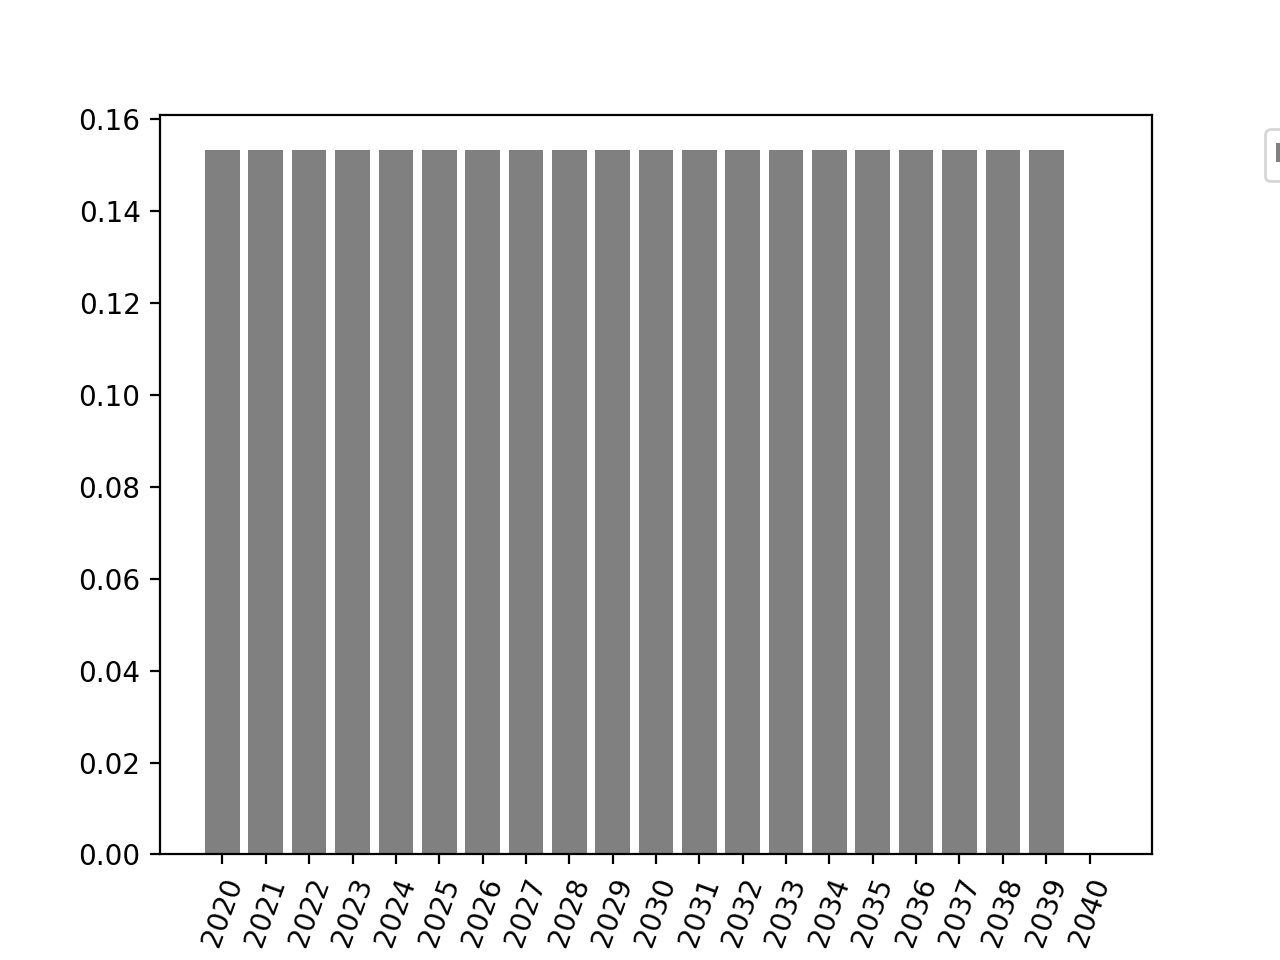
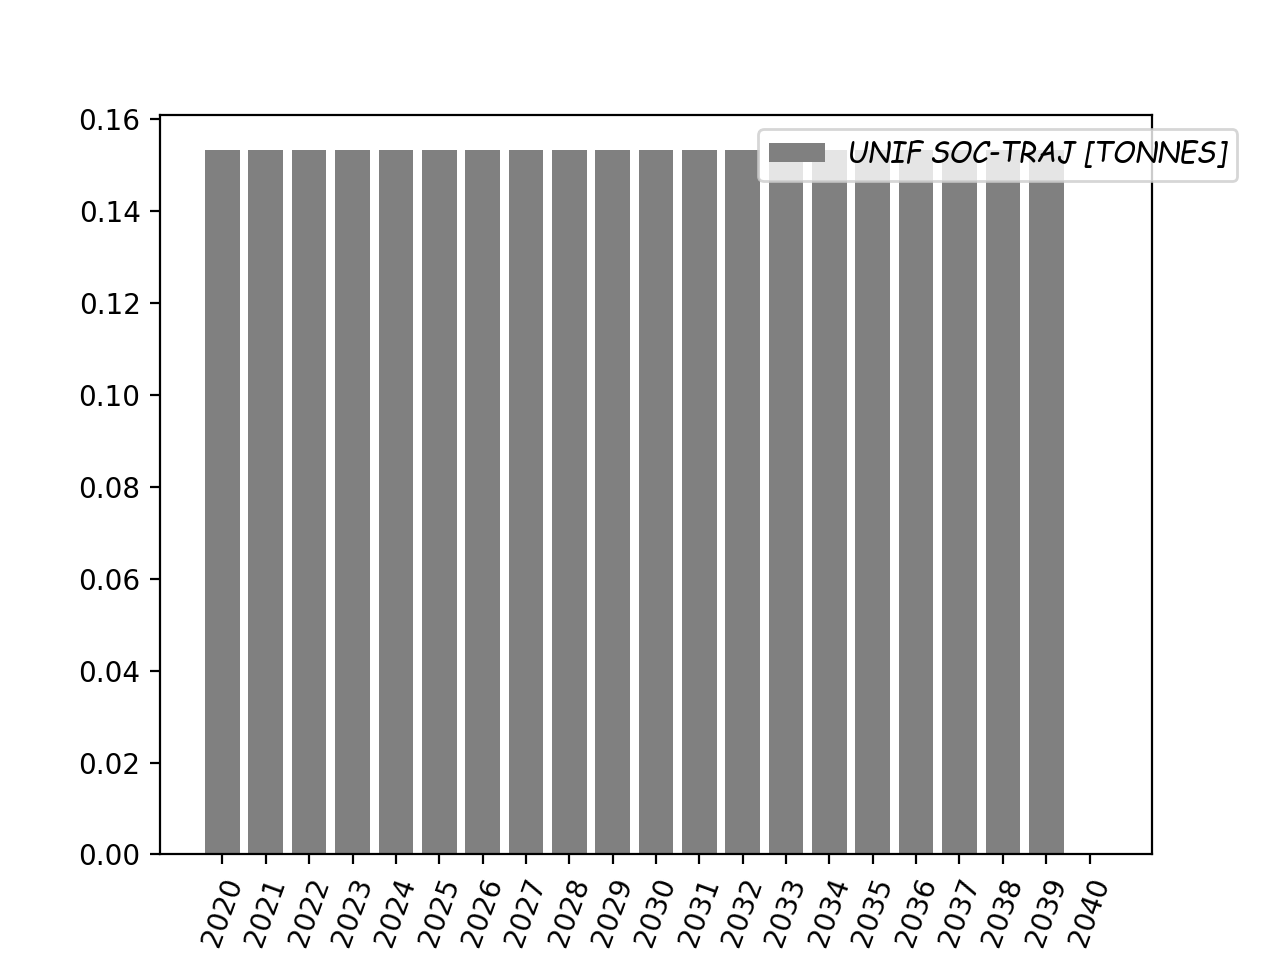
Update example charts and nuance ways modules are imported and add charting progression

Changed region(s): [[0.5938, 0.125, 1.0, 0.1875]]

diff --git a/PyLUCCBA/core.py b/PyLUCCBA/core.py
@@ -40,11 +40,14 @@ __all__ = [
     'VegetationsAndSoilSpecificities',
 ]
 
-import warnings;warnings.filterwarnings('ignore')
-from . import tools as ts
-import pprint as pp
-import numpy as np
 import os
+import pprint as pp
+import warnings;warnings.filterwarnings('ignore')
+import numpy as np;np.seterr(divide='ignore', invalid='ignore')
+if __name__ == '__main__':
+    import tools as ts
+else:
+    from . import tools as ts
 
 VERBOSE        = True
 VERBOSE_SOLVER = True
@@ -8211,120 +8214,76 @@ class CBACalculator(ts.Cache):
     @ts.Cache._property
     def all_charts(self):
         """ Charts of computed data, stored in `self.save_dir`."""
-        #< FLOWS CHARTS >
-        self.chart_of_soc_unif_flows
-        self.chart_of_soc_diff_flows
-        self.chart_of_vgc_unif_flows
-        self.chart_of_vgc_diff_flows
-        self.chart_of_unif_carbon_flows
-        self.chart_of_diff_carbon_flows
-        self.chart_of_soco2_unif_flows
-        self.chart_of_soco2_diff_flows
-        self.chart_of_vgco2_unif_flows
-        self.chart_of_vgco2_diff_flows
-        self.chart_of_unif_co2_flows
-        self.chart_of_diff_co2_flows
-        self.chart_of_scenarized_cultivated_input_co2eq_flows
-        self.chart_of_scenarized_processed_input_co2eq_flows
-        self.chart_of_scenarized_cultivated_unitary_input_co2eq_flows_traj #GWP-like
-        self.chart_of_scenarized_processed_unitary_input_co2eq_flows_traj  #GWP-like
-        self.chart_of_scenarized_output_flows
-        self.chart_of_scenarized_black_output_flows
-        self.chart_of_scenarized_input_flows
-        self.chart_of_scenarized_land_surface_flows
-        self.chart_of_scenarized_total_diff_co2_flows
-        self.chart_of_scenarized_total_unif_co2_flows
-        #< BASELINE FLOWS >
-        self.chart_of_scenarized_black_output_co2_flows
-        #< VALUE CHARTS >
-        self.chart_of_scenarized_co2_prices
-        self.chart_of_scenarized_proc_co2_flows_value
-        self.chart_of_scenarized_cult_co2_flows_value
-        self.chart_of_scenarized_proc_plus_cult_co2_flows_value
-        #< DIFF >
-        self.chart_of_scenarized_so_diff_co2_flows_value
-        self.chart_of_scenarized_vg_diff_co2_flows_value
-        self.chart_of_scenarized_so_plus_vg_diff_co2_flows_value
-        self.chart_of_scenarized_total_diff_co2_flows_value
-        #< UNIF >
-        self.chart_of_scenarized_so_unif_co2_flows_value
-        self.chart_of_scenarized_vg_unif_co2_flows_value
-        self.chart_of_scenarized_so_plus_vg_unif_co2_flows_value
-        self.chart_of_scenarized_total_unif_co2_flows_value
-        #< BASELINE VALUE >
-        self.chart_of_scenarized_black_output_co2_flows_value
-        #< DISCOUNTED EUR CHARTS >
-        self.chart_of_scenarized_co2_disc_prices
-        self.chart_of_scenarized_proc_co2_flows_disc_value
-        self.chart_of_scenarized_cult_co2_flows_disc_value
-        self.chart_of_scenarized_proc_plus_cult_co2_flows_disc_value
-        #< DIFF >
-        self.chart_of_scenarized_so_diff_co2_flows_disc_value
-        self.chart_of_scenarized_vg_diff_co2_flows_disc_value
-        self.chart_of_scenarized_so_plus_vg_diff_co2_flows_disc_value
-        self.chart_of_scenarized_total_diff_co2_flows_disc_value
-        #< UNIF >
-        self.chart_of_scenarized_so_unif_co2_flows_disc_value
-        self.chart_of_scenarized_vg_unif_co2_flows_disc_value
-        self.chart_of_scenarized_so_plus_vg_unif_co2_flows_disc_value
-        self.chart_of_scenarized_total_unif_co2_flows_disc_value
-        #< BASELINE >
-        self.chart_of_scenarized_black_output_co2_flows_disc_value
-
-        #< NPV EUR CHARTS >
-        self.chart_of_scenarized_NPV_proc_co2_flows
-        self.chart_of_scenarized_NPV_cult_co2_flows
-        self.chart_of_scenarized_NPV_proc_plus_cult_co2_flows
-        #< DIFF >
-        self.chart_of_scenarized_NPV_so_diff_co2_flows
-        self.chart_of_scenarized_NPV_vg_diff_co2_flows
-        self.chart_of_scenarized_NPV_so_plus_vg_diff_co2_flows
-        self.chart_of_scenarized_NPV_total_diff_co2_flows
-        #< UNIF >
-        self.chart_of_scenarized_NPV_so_unif_co2_flows
-        self.chart_of_scenarized_NPV_vg_unif_co2_flows
-        self.chart_of_scenarized_NPV_so_plus_vg_unif_co2_flows
-        self.chart_of_scenarized_NPV_total_unif_co2_flows
-        #< BASELINE >
-        self.chart_of_scenarized_NPV_black_output_co2_flows
-
-
-        #< NPV per tonne ouf cumulated output flows >
-        self.chart_of_scenarized_NPV_proc_co2_flows_per_cum_output_flows
-        self.chart_of_scenarized_NPV_cult_co2_flows_per_cum_output_flows
-        self.chart_of_scenarized_NPV_proc_plus_cult_co2_flows_per_cum_output_flows
-        #< DIFF >
-        self.chart_of_scenarized_NPV_so_diff_co2_flows_per_cum_output_flows
-        self.chart_of_scenarized_NPV_vg_diff_co2_flows_per_cum_output_flows
-        self.chart_of_scenarized_NPV_so_plus_vg_diff_co2_flows_per_cum_output_flows
-        self.chart_of_scenarized_NPV_total_diff_co2_flows_per_cum_output_flows
-        #< UNIF >
-        self.chart_of_scenarized_NPV_so_unif_co2_flows_per_cum_output_flows
-        self.chart_of_scenarized_NPV_vg_unif_co2_flows_per_cum_output_flows
-        self.chart_of_scenarized_NPV_so_plus_vg_unif_co2_flows_per_cum_output_flows
-        self.chart_of_scenarized_NPV_total_unif_co2_flows_per_cum_output_flows
-        #< BASELINE >
-        self.chart_of_scenarized_NPV_black_output_co2_flows_per_cum_black_output_flows
-
-
-        #< NPV per tonne ouf cumulated output flows >
-        self.chart_of_scenarized_NPV_proc_co2_flows_per_cum_MJs_output_flows
-        self.chart_of_scenarized_NPV_cult_co2_flows_per_cum_MJs_output_flows
-        self.chart_of_scenarized_NPV_proc_plus_cult_co2_flows_per_cum_MJs_output_flows
-        #< DIFF >
-        self.chart_of_scenarized_NPV_so_diff_co2_flows_per_cum_MJs_output_flows
-        self.chart_of_scenarized_NPV_vg_diff_co2_flows_per_cum_MJs_output_flows
-        self.chart_of_scenarized_NPV_so_plus_vg_diff_co2_flows_per_cum_MJs_output_flows
-        self.chart_of_scenarized_NPV_total_diff_co2_flows_per_cum_MJs_output_flows
-        #< UNIF >
-        self.chart_of_scenarized_NPV_so_unif_co2_flows_per_cum_MJs_output_flows
-        self.chart_of_scenarized_NPV_vg_unif_co2_flows_per_cum_MJs_output_flows
-        self.chart_of_scenarized_NPV_so_plus_vg_unif_co2_flows_per_cum_MJs_output_flows
-        self.chart_of_scenarized_NPV_total_unif_co2_flows_per_cum_MJs_output_flows
-        #< BASELINE >
-        self.chart_of_scenarized_NPV_black_output_co2_flows_per_cum_MJs_black_output_flows
-
+        nb_keys = len(self._charts_keys)
+        for i, ckey in enumerate(self._charts_keys):
+            getattr(self, ckey)
+            if i%4 == 0:
+                print("Rendering all charts: {0:.2f}%".format(
+                    100.*(i + 1)/nb_keys)
+                )
         return True
+    
+    _charts_keys = [
+        #< FLOWS CHARTS >
+        'chart_of_soc_unif_flows',
+        'chart_of_soc_diff_flows',
+        'chart_of_vgc_unif_flows',
+        'chart_of_vgc_diff_flows',
+        'chart_of_unif_carbon_flows',
+        'chart_of_diff_carbon_flows',
+        'chart_of_soco2_unif_flows',
+        'chart_of_soco2_diff_flows',
+        'chart_of_vgco2_unif_flows',
+        'chart_of_vgco2_diff_flows',
+        'chart_of_unif_co2_flows',
+        'chart_of_diff_co2_flows',
+        'chart_of_scenarized_cultivated_input_co2eq_flows',
+        'chart_of_scenarized_processed_input_co2eq_flows',
+        'chart_of_scenarized_cultivated_unitary_input_co2eq_flows_traj', #GWP-like
+        'chart_of_scenarized_processed_unitary_input_co2eq_flows_traj',  #GWP-like
+        'chart_of_scenarized_output_flows',
+        'chart_of_scenarized_black_output_flows',
+        'chart_of_scenarized_input_flows',
+        'chart_of_scenarized_land_surface_flows',
+        'chart_of_scenarized_total_diff_co2_flows',
+        'chart_of_scenarized_total_unif_co2_flows',
+        #< BASELINE FLOWS >
+        'chart_of_scenarized_black_output_co2_flows',
+        #< VALUE CHARTS >
+        'chart_of_scenarized_co2_prices',
+        'chart_of_scenarized_proc_co2_flows_value',
+        'chart_of_scenarized_cult_co2_flows_value',
+        'chart_of_scenarized_proc_plus_cult_co2_flows_value',
+        #< DIFF >
+        'chart_of_scenarized_so_diff_co2_flows_value',
+        'chart_of_scenarized_vg_diff_co2_flows_value',
+        'chart_of_scenarized_so_plus_vg_diff_co2_flows_value',
+        'chart_of_scenarized_total_diff_co2_flows_value',
+        #< UNIF >
+        'chart_of_scenarized_so_unif_co2_flows_value',
+        'chart_of_scenarized_vg_unif_co2_flows_value',
+        'chart_of_scenarized_so_plus_vg_unif_co2_flows_value',
+        'chart_of_scenarized_total_unif_co2_flows_value',
+        #< BASELINE VALUE >
+        'chart_of_scenarized_black_output_co2_flows_value',
+        #< DISCOUNTED EUR CHARTS >
+        'chart_of_scenarized_co2_disc_prices',
+        'chart_of_scenarized_proc_co2_flows_disc_value',
+        'chart_of_scenarized_cult_co2_flows_disc_value',
+        'chart_of_scenarized_proc_plus_cult_co2_flows_disc_value',
+        #< DIFF >
+        'chart_of_scenarized_so_diff_co2_flows_disc_value',
+        'chart_of_scenarized_vg_diff_co2_flows_disc_value',
+        'chart_of_scenarized_so_plus_vg_diff_co2_flows_disc_value',
+        'chart_of_scenarized_total_diff_co2_flows_disc_value',
+        #< UNIF >
+        'chart_of_scenarized_so_unif_co2_flows_disc_value',
+        'chart_of_scenarized_vg_unif_co2_flows_disc_value',
+        'chart_of_scenarized_so_plus_vg_unif_co2_flows_disc_value',
+        'chart_of_scenarized_total_unif_co2_flows_disc_value',
+        #< BASELINE >
+        'chart_of_scenarized_black_output_co2_flows_disc_value',
+    ]
 
 
 ##******************************************

diff --git a/PyLUCCBA/tools.py b/PyLUCCBA/tools.py
@@ -195,9 +195,9 @@ def taber(msg, size):
         return str(msg) + (size - len(str(msg)))*' '
 
 ##******************************************
-##    ┌─┐┌─┐┬ ┬  ┬┌─┐┬─┐    ╔╗╔╔╦╗
-##    └─┐│ ││ └┐┌┘├┤ ├┬┘    ║║║ ║║
-##    └─┘└─┘┴─┘└┘ └─┘┴└─────╝╚╝═╩╝
+##    ┌─┐┌─┐┬ ┬  ┬┌─┐┬─┐    ┌┬┐┌─┐┌─┐┬─┐
+##    └─┐│ ││ └┐┌┘├┤ ├┬┘    │││└─┐│ ┬├┬┘
+##    └─┘└─┘┴─┘└┘ └─┘┴└─────┴ ┴└─┘└─┘┴└─
 def solver_msgr(t, c, s, v, e):
     """ Enriching wrapper of the function `taber` defined for solver's
     messages
@@ -222,6 +222,11 @@ def solver_msgr(t, c, s, v, e):
         v, c.replace(' \n ', ''), '%e'%e
     )
     return  sol_section + com_section
+
+##******************************************
+##    ┌─┐┌─┐┬ ┬  ┬┌─┐┬─┐    ╔╗╔╔╦╗
+##    └─┐│ ││ └┐┌┘├┤ ├┬┘    ║║║ ║║
+##    └─┘└─┘┴─┘└┘ └─┘┴└─────╝╚╝═╩╝
 def solver_ND(display, title, func, _Z_, bforce, *args, **kwargs):
     """ N dimensions solver.
 
@@ -510,7 +515,6 @@ def poler(sparse_trajectory_as_dict, repeated_pattern_polation, **kwargs):
     #---------------------< control for empty dictionnary and return >
     return polated_values if len(polated_values)\
            else {year : 1 for year in year_polate}
-
 
 ##******************************************
 ##    ╔═╗┌─┐┌─┐┬ ┬┌─┐
@@ -1001,6 +1005,7 @@ class Dashboard(object):
                 )
         self.dashB.legend(
             prop=self.prop,
+            loc = 'upper right',
             labelspacing = 0.2,
             bbox_to_anchor =(1.1, 1.)
         )

diff --git a/PyLUCCBA/examples/study_cases_BASE.py b/PyLUCCBA/examples/study_cases_BASE.py
@@ -18,8 +18,7 @@ cba = cc.CBACalculator(
     input_flows_scenario   = ['CRISTANOL','DOE'][1],
     **cs.other_parameters
 )
-##cba = cc.CBAParametersEndogenizer(cba).ENDOGENOUS_disc_rate_which_equates_NPV_total_unif_co2_flows_TO_NPV_total_diff_co2_flows  
-cba.all_XLSXed
+##cba = cc.CBAParametersEndogenizer(cba).ENDOGENOUS_disc_rate_which_equates_NPV_total_unif_co2_flows_TO_NPV_total_diff_co2_flows
 cba.all_charts
 objects[cba.run_name] = {'summary':cba.summary_args,'object':cba}
 
@@ -31,3 +30,4 @@ print(u"""
 *******************************************************************************""")
 for run_name, dico in objects.items():
     print(dico['summary'])
+    dico['object'].all_XLSXed

diff --git a/PyLUCCBA/examples/study_cases_Forest_CompensatoryRate.py b/PyLUCCBA/examples/study_cases_Forest_CompensatoryRate.py
@@ -29,7 +29,6 @@ objects = {}
 for s_name in co2_prices_scenarios:    
     cba = scenarizer(s_name)
     cba = cc.CBAParametersEndogenizer(cba).ENDOGENOUS_discount_rate_which_equates_NPV_TOTAL_uniform_co2_flows_TO_NPV_TOTAL_differentiated_co2_flows
-    cba.all_XLSXed
     objects[cba.run_name] = {'summary':cba.summary_args,'object':cba}
 
 
@@ -42,3 +41,4 @@ print(u"""
 *******************************************************************************""")
 for run_name, dico in objects.items():
     print(dico['summary'])
+    dico['object'].all_XLSXed

diff --git a/PyLUCCBA/examples/study_cases_Grassland_CompensatoryRate.py b/PyLUCCBA/examples/study_cases_Grassland_CompensatoryRate.py
@@ -29,7 +29,6 @@ objects = {}
 for s_name in co2_prices_scenarios:    
     cba = scenarizer(s_name)
     cba = cc.CBAParametersEndogenizer(cba).ENDOGENOUS_disc_rate_which_equates_NPV_total_unif_co2_flows_TO_NPV_total_diff_co2_flows
-    cba.all_XLSXed
     objects[cba.run_name] = {'summary':cba.summary_args,'object':cba}
 
 
@@ -42,3 +41,4 @@ print(u"""
 *******************************************************************************""")
 for run_name, dico in objects.items():
     print(dico['summary'])
+    dico['object'].all_XLSXed

diff --git a/PyLUCCBA/examples/study_cases_Forest_CarbonPriceEffect.py b/PyLUCCBA/examples/study_cases_Forest_CarbonPriceEffect.py
@@ -23,7 +23,6 @@ co2_prices_scenarios = ['O', 'A', 'B', 'C', 'SPC']
 objects = {}
 for s_name in co2_prices_scenarios:    
     cba = scenarizer(s_name)
-    cba.all_XLSXed
     objects[cba.run_name] = {'summary':cba.summary_args,'object':cba}
 
 
@@ -36,3 +35,4 @@ print(u"""
 *******************************************************************************""")
 for run_name, dico in objects.items():
     print(dico['summary'])
+    dico['object'].all_XLSXed

diff --git a/PyLUCCBA/examples/study_cases_Forest_CombinedEffect.py b/PyLUCCBA/examples/study_cases_Forest_CombinedEffect.py
@@ -23,7 +23,6 @@ co2_prices_scenarios = ['O', 'A', 'B', 'C', 'SPC']
 objects = {}
 for s_name in co2_prices_scenarios:    
     cba = scenarizer(s_name)
-    cba.all_XLSXed
     objects[cba.run_name] = {'summary':cba.summary_args,'object':cba}
 
 
@@ -36,3 +35,4 @@ print(u"""
 *******************************************************************************""")
 for run_name, dico in objects.items():
     print(dico['summary'])
+    dico['object'].all_XLSXed

diff --git a/PyLUCCBA/examples/study_cases_Grassland_CarbonPriceEffect.py b/PyLUCCBA/examples/study_cases_Grassland_CarbonPriceEffect.py
@@ -23,7 +23,6 @@ co2_prices_scenarios = ['O', 'A', 'B', 'C', 'SPC']
 objects = {}
 for s_name in co2_prices_scenarios:    
     cba = scenarizer(s_name)
-    cba.all_XLSXed
     objects[cba.run_name] = {'summary':cba.summary_args,'object':cba}
 
 
@@ -36,3 +35,4 @@ print(u"""
 *******************************************************************************""")
 for run_name, dico in objects.items():
     print(dico['summary'])
+    dico['object'].all_XLSXed

diff --git a/PyLUCCBA/examples/study_cases_Grassland_CombinedEffect.py b/PyLUCCBA/examples/study_cases_Grassland_CombinedEffect.py
@@ -23,7 +23,6 @@ co2_prices_scenarios = ['O', 'A', 'B', 'C', 'SPC']
 objects = {}
 for s_name in co2_prices_scenarios:    
     cba = scenarizer(s_name)
-    cba.all_XLSXed
     objects[cba.run_name] = {'summary':cba.summary_args,'object':cba}
 
 
@@ -36,3 +35,4 @@ print(u"""
 *******************************************************************************""")
 for run_name, dico in objects.items():
     print(dico['summary'])
+    dico['object'].all_XLSXed

diff --git a/PyLUCCBA/examples/study_cases_Grassland_PaybackPeriod.py b/PyLUCCBA/examples/study_cases_Grassland_PaybackPeriod.py
@@ -29,7 +29,6 @@ co2_prices_scenarios = [
 objects = {}
 for s_name in co2_prices_scenarios:    
     cba = scenarizer(s_name)
-    cba.all_XLSXed
     #cba.all_charts
     objects[cba.run_name] = {'summary':cba.summary_args,'object':cba}
 
@@ -43,4 +42,5 @@ print(u"""
 *******************************************************************************""")
 for run_name, dico in objects.items():
     print(dico['summary'])
+    dico['object'].all_XLSXed
 

diff --git a/PyLUCCBA/examples/study_cases_Forest_DiscountingEffect.py b/PyLUCCBA/examples/study_cases_Forest_DiscountingEffect.py
@@ -22,7 +22,6 @@ discount_rates = [.0, .01, .03, .05]
 objects = {}
 for d_rate in discount_rates:    
     cba = scenarizer(d_rate)
-    cba.all_XLSXed
     objects[cba.run_name] = {'summary':cba.summary_args,'object':cba}
 
 
@@ -35,3 +34,4 @@ print(u"""
 *******************************************************************************""")
 for run_name, dico in objects.items():
     print(dico['summary'])
+    dico['object'].all_XLSXed

diff --git a/PyLUCCBA/examples/study_cases_Grassland_DiscountingEffect.py b/PyLUCCBA/examples/study_cases_Grassland_DiscountingEffect.py
@@ -22,7 +22,6 @@ discount_rates = [.0, .01, .03, .05]
 objects = {}
 for d_rate in discount_rates:    
     cba = scenarizer(d_rate)
-    cba.all_XLSXed
     objects[cba.run_name] = {'summary':cba.summary_args,'object':cba}
 
 
@@ -35,3 +34,4 @@ print(u"""
 *******************************************************************************""")
 for run_name, dico in objects.items():
     print(dico['summary'])
+    dico['object'].all_XLSXed
